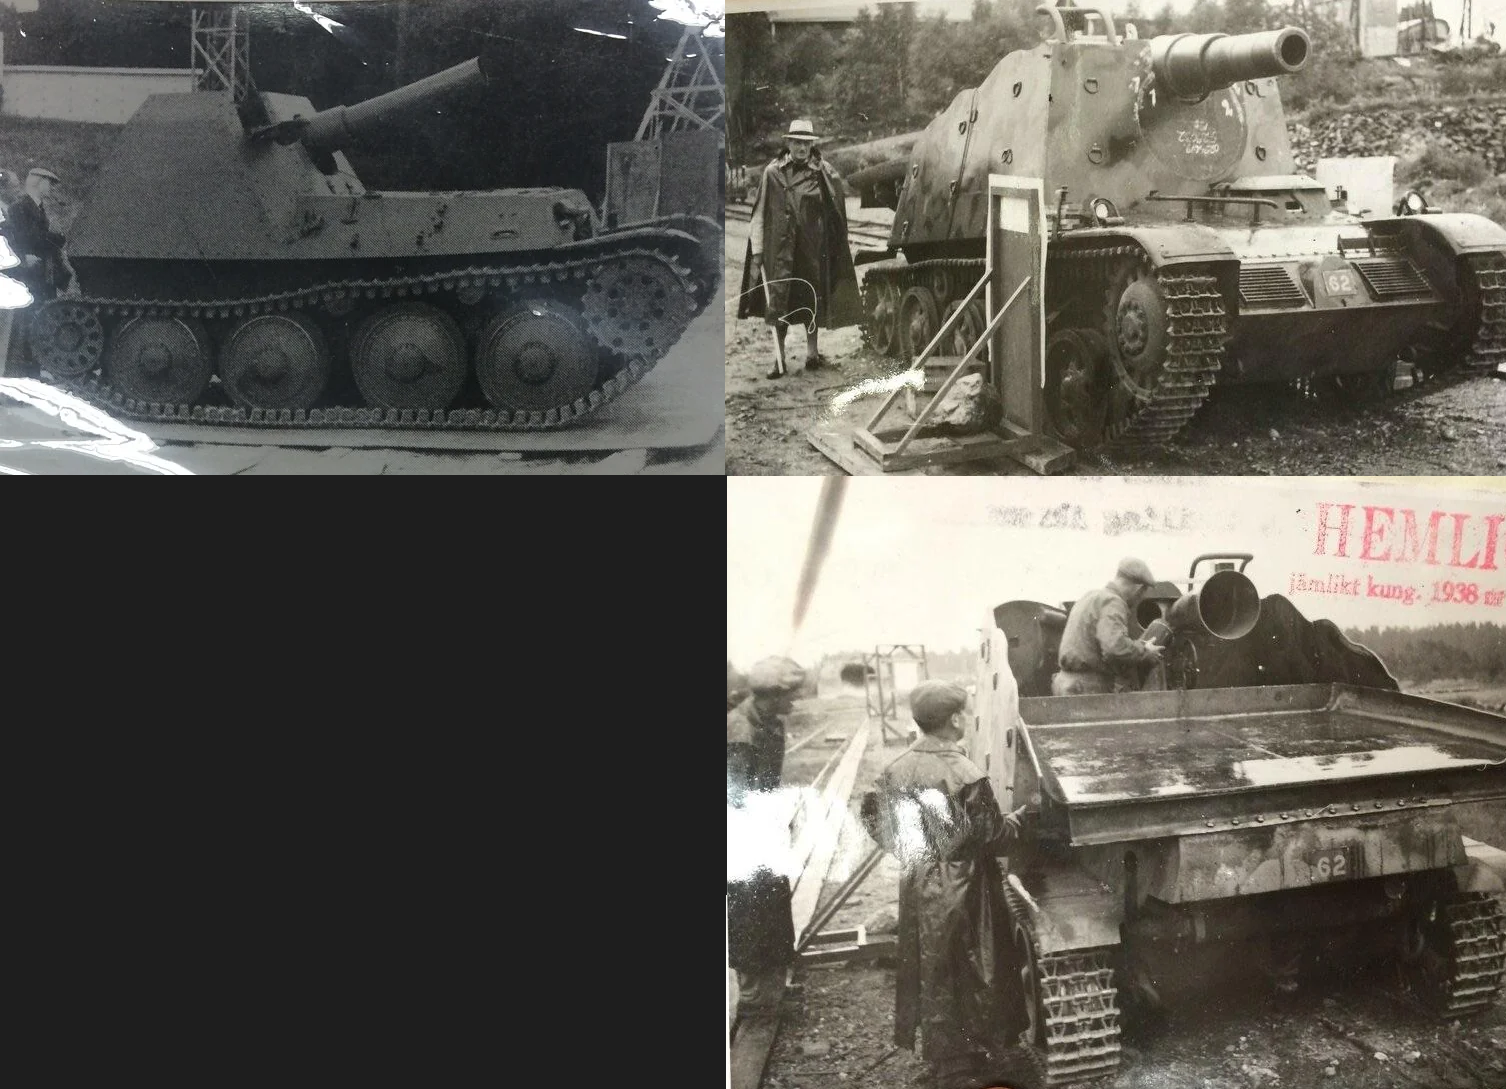
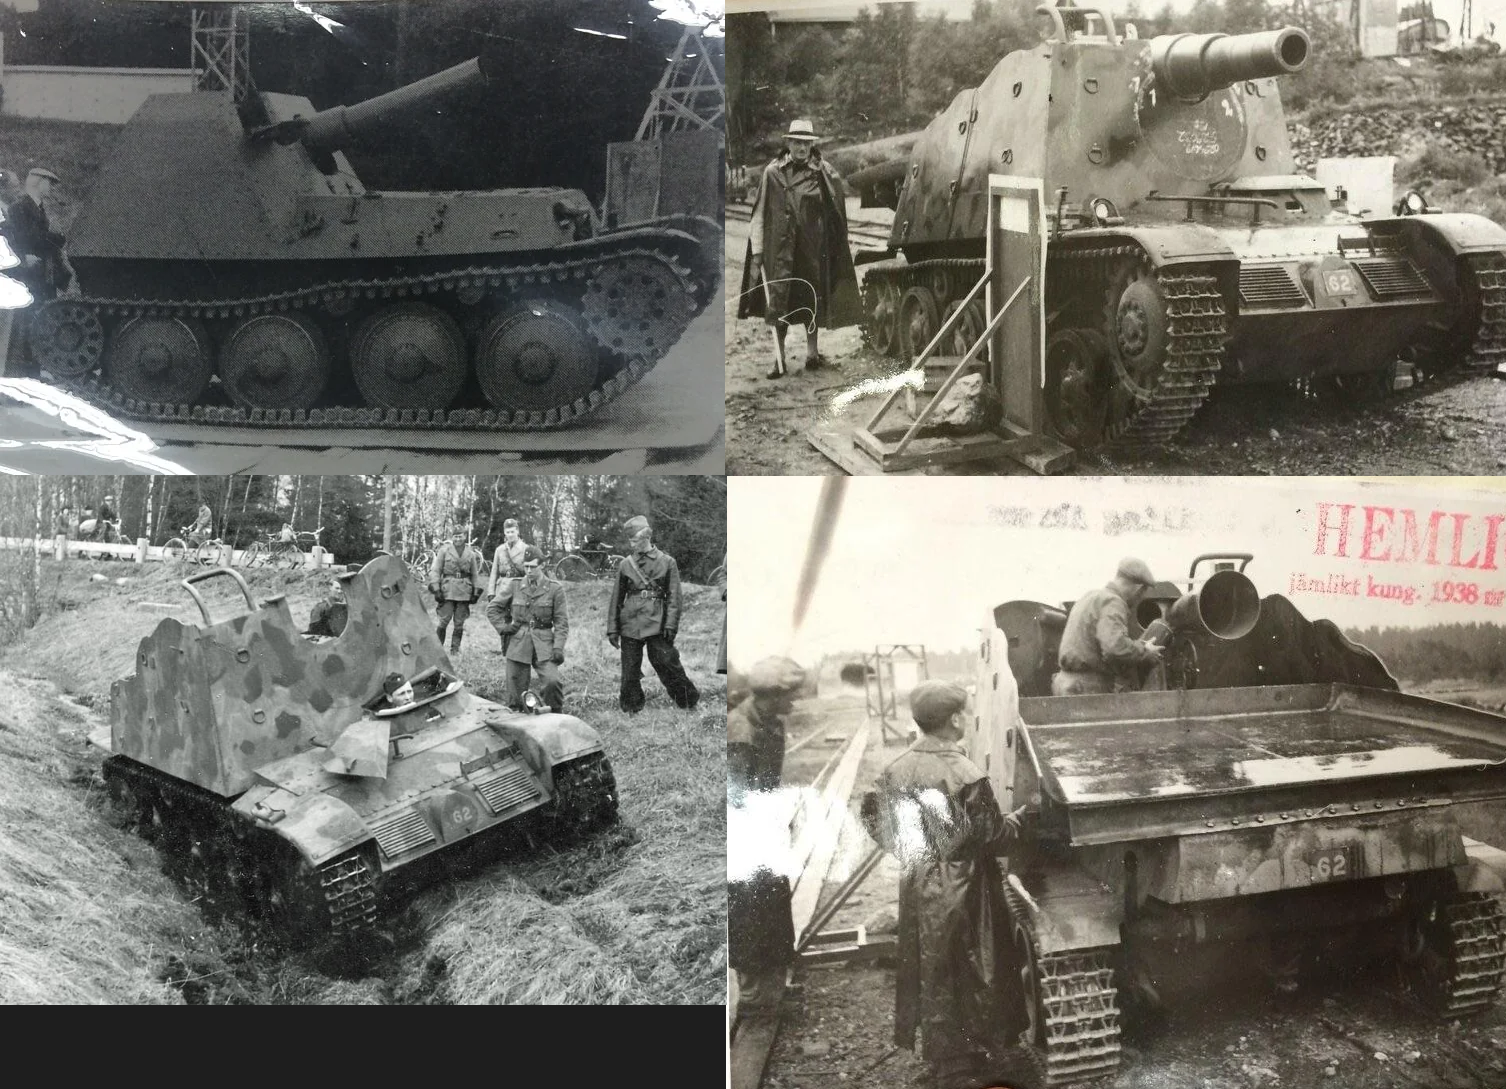
feat - tier II sweden ground update

Changed region(s): [[0.0, 0.4371, 0.4993, 0.9366]]

diff --git a/sweden/ground/tier_2.md b/sweden/ground/tier_2.md
@@ -2,9 +2,13 @@
 
 ![Strv m/41 S-II](/sweden/ground/tier_2_img/Strvm41SII_1.png)
 
+![Strv m/41 S-II](/sweden/ground/tier_2_img/Strvm41SII_1_irl.png)
+
 # Strv m/41 S-I
 
 ![Strv m/41 S-I](/sweden/ground/tier_2_img/Strvm41SI_1.png)
+
+![Strv m/41 S-I](/sweden/ground/tier_2_img/Strvm41SI_1_irl.png)
 
 # PvkV III
 
@@ -15,6 +19,8 @@
 # Lago I
 
 ![Lago I](/sweden/ground/tier_2_img/LagoI_1.png)
+
+![Lago I](/sweden/ground/tier_2_img/LagoI_1_irl.png)
 
 # Strv m/42 EH
 
@@ -32,6 +38,8 @@
 # Lvtdgb m/40
 
 ![Lvtdgb m/40](/sweden/ground/tier_2_img/Lvtdgbm40_1.png)
+
+![Lvtdgb m/40](/sweden/ground/tier_2_img/Lvtdgbm40_1_irl.png)
 
 # Spj fm/43-44
 
